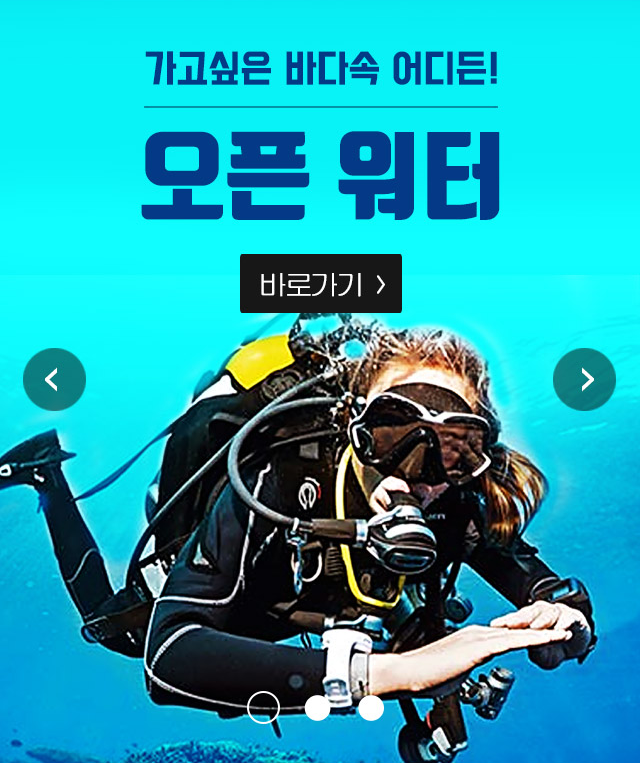
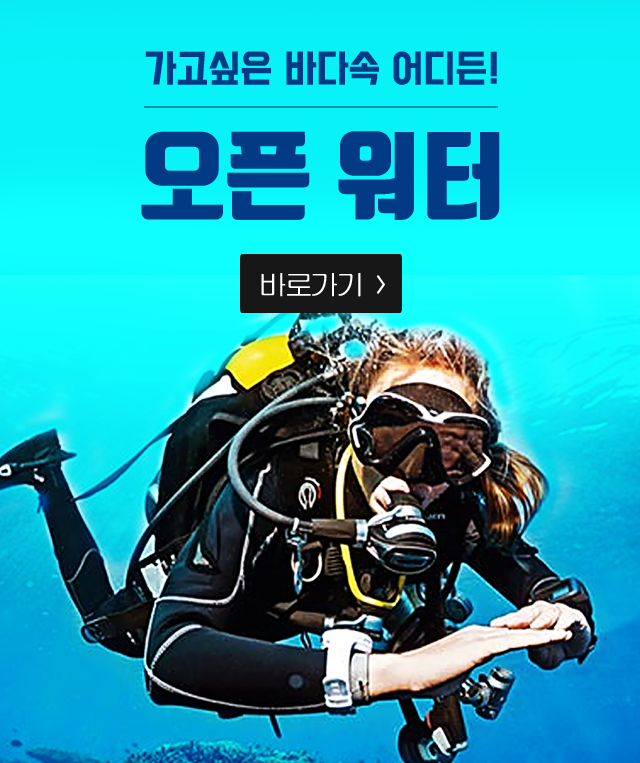
s

diff --git a/work/view_bluemonster/css/common.css b/work/view_bluemonster/css/common.css
@@ -1301,6 +1301,8 @@ label.chk2 input[type=checkbox]:checked+span:before {
 
 .main .container .con_1 .inner .sub_title {
     width: 171px;
+    position: relative;
+    z-index: 2;
 }
 
 .main .container .con_1 .inner .title {
@@ -1432,11 +1434,7 @@ label.chk2 input[type=checkbox]:checked+span:before {
 .main .container .con_3 .inner {
     width: 100%;
     max-width: 1100px;
-    height: 577px;
     margin: 0 auto;
-    background-image: url(../img/con_3_1.png);
-    background-repeat: no-repeat;
-    background-position: center center;
     position: relative;
 }
 
@@ -1457,7 +1455,9 @@ label.chk2 input[type=checkbox]:checked+span:before {
     width: 150px;
     background-image: url(../img/arr_btn_2.png);
 }
-
+.main .container .con_3 .inner .m_hidden{
+    display: none;
+}
 .main .container .con_4 {
     background-image: url(../img/con_4_1.png);
     background-repeat: repeat;
@@ -2491,6 +2491,9 @@ label.chk2 input[type=checkbox]:checked+span:before {
     display: none;
 }
 
+.main .container .main_visual .slick_wrap .slick_con .m2_hidden{
+    display: none;
+}
 .main .container .main_visual .slick_wrap .slick_con .m_hidden{
     display: none;
 }
@@ -2504,7 +2507,7 @@ label.chk2 input[type=checkbox]:checked+span:before {
     .main .container .con_1 .con_bg {
         width: 60%;
         top: 20px;
-        right: -50px;
+        right: -80px;
     }
     .main .container .con_1 .con_bg img{
         display: none;
@@ -2513,7 +2516,7 @@ label.chk2 input[type=checkbox]:checked+span:before {
         display: block;
     }
     .main .container .main_visual {
-        margin-top: 80px;
+        margin-top: 60px;
     }
 
     .main .container .main_visual .arrows_wrap {
@@ -2534,7 +2537,10 @@ label.chk2 input[type=checkbox]:checked+span:before {
     }
 
     .main .container .con_1 .inner .btn_wrap {
-        margin: 70px 0 0;
+        margin: 20px 0 0;
+    }
+    .main .container .con_2 .inner .btn_wrap{
+        margin: 20px 0 0;
     }
     #gnb.on+.gnb_bg {
         top: 0;
@@ -2631,12 +2637,13 @@ label.chk2 input[type=checkbox]:checked+span:before {
     #header {
         overflow: visible;
         transform: none;
+        height: 60px;
     }
 
     #header .header_inner {
         width: 100%;
         max-width: 1100px;
-        height: 80px;
+        height: 60px;
         z-index: 100;
         box-sizing: border-box;
         transition: all .3s;
@@ -2656,7 +2663,7 @@ label.chk2 input[type=checkbox]:checked+span:before {
 
 
     #header .header_inner .trg_aside {
-        width: 34px;
+        width: 30px;
         height: 32px;
         position: absolute;
         top: 50%;
@@ -2667,31 +2674,35 @@ label.chk2 input[type=checkbox]:checked+span:before {
     }
 
     #header .header_inner .util {
-        width: 51px;
-        height: 51px;
+        width: 45px;
+        height: 45px;
         position: absolute;
         top: 50%;
         right: 30px;
         transform: translate(0, -50%);
         text-indent: -9999px;
     }
-
+    #header .header_inner .util img{
+        width: 100%;
+    }
     #header.brand .header_inner .util.login:before {
-        width: 51px;
-        height: 51px;
+        width: 45px;
+        height: 45px;
         background: url(../img/m_login.png) 0 0 no-repeat;
+        background-size: contain;
     }
     #header.brand .header_inner .util.logout:after {
-        width: 51px;
-        height: 51px;
+        width: 45px;
+        height: 45px;
         background: url(../img/m_logout.png) 0 0 no-repeat;
+        background-size: contain;
     }
 
     #header:after {
         display: block;
         content: '';
         position: absolute;
-        top: 80px;
+        top: 60px;
         width: 100%;
         height: 2px;
         background: rgba(255, 255, 255, 0.2);
@@ -2719,10 +2730,10 @@ label.chk2 input[type=checkbox]:checked+span:before {
         position: fixed;
         top: 0;
         bottom: 0;
-        left: -375px;
+        left: -340px;
         z-index: 200;
         box-sizing: border-box;
-        width: 375px;
+        width: 340px;
         margin: 0;
         padding: 70px 40px 60px;
         background: #0489b1;
@@ -3052,6 +3063,12 @@ label.chk2 input[type=checkbox]:checked+span:before {
         width: 100%;
         max-width: 320px;
         margin: 20px auto 0;
+    }
+    .main .container .main_visual .slick_wrap .slick_con img{
+        display: none;
+    }
+    .main .container .main_visual .slick_wrap .slick_con .m2_hidden{
+        display: block;
     }
 }
 
@@ -3417,6 +3434,9 @@ label.chk2 input[type=checkbox]:checked+span:before {
     .main .container .main_visual .slick_wrap .slick_con img{
         display: none;
     }
+    .main .container .main_visual .slick_wrap .slick_con .m2_hidden{
+        display: none;
+    }
     .main .container .main_visual .slick_wrap .slick_con .m_hidden{
         display: block;
     }
@@ -3432,17 +3452,19 @@ label.chk2 input[type=checkbox]:checked+span:before {
     }
     .main .btn_wrap .btn{
         width: 300px;
-        font-size: 22px;
+        font-size: 20px;
+        height: 50px;
+        line-height: 50px;
     }
     .main .container .con_2 .box_left .inner{
-        padding-top: 50px;
+        padding-top: 30px;
     }
     .main .container .con_2>div{
         height: auto;
-        padding-bottom: 50px;
+        padding-bottom: 30px;
     }
     .main .container .con_2 .box_right .inner{
-        padding-top: 50px;
+        padding-top: 30px;
     }
     .main .container .con_4 .inner .box_left{
         width: 100%;
@@ -3458,6 +3480,24 @@ label.chk2 input[type=checkbox]:checked+span:before {
     }
     .main .container .con_4 .inner .box_left img{
         max-width: 50%;
+    }
+    .main .container .con_1{
+        padding: 30px 0;
+    }
+    .main .container .con_4{
+        padding: 30px 0;
+    }
+    .main .container .con_5{
+        padding: 30px 0;
+    }
+    .main .container .con_5 .sns_wrap{
+        padding-top: 30px;
+    }
+    .main .container .con_3 .inner img{
+        display: none;
+    }
+    .main .container .con_3 .inner .m_hidden{
+        display: block;
     }
 }
 
@@ -3483,6 +3523,7 @@ label.chk2 input[type=checkbox]:checked+span:before {
     .main .container .con_2 .box_right .inner .add_text {
         font-size: 20px;
         line-height: 36px;
+        display: none;
     }
 
     .main .container .con_4 .inner img {
@@ -3493,11 +3534,15 @@ label.chk2 input[type=checkbox]:checked+span:before {
     }
 
     .main .container .con_5 .inner .arrows_wrap {
-        min-width: 120px;
+        min-width: 100%;
+        bottom: -360px;
+        z-index: 2;
     }
 
     .main .container .con_5 .inner .title {
         width: 100%;
+        font-size: 42px;
+        padding-top: 25px;
     }
 
     .sub06 .container .con_1 .inner {
@@ -3556,16 +3601,22 @@ label.chk2 input[type=checkbox]:checked+span:before {
         font-size: 34px;
     }
 
+    .main .container .con_5 .inner .title span {
+        display: none;
+    }
     .main .container .con_2 .box_left .inner .title {
         font-size: 42px;
+        padding-top: 25px;
     }
 
     .main .container .con_2 .box_left .inner .title span {
         font-size: 34px;
+        display: none;
     }
 
     .main .container .con_2 .box_right .inner .title {
         font-size: 42px;
+        padding-top: 25px;
     }
 
     .main .container .con_2 .box_right .inner .title span {

diff --git a/work/view_bluemonster/index.html b/work/view_bluemonster/index.html
@@ -126,18 +126,21 @@
                     <div class="slick_con">
                         <a href="#">
                             <img src="img/main_visual_1.png" alt="설명">
+                            <img src="img/m2_main_visual_1.png" alt="설명" class="m2_hidden">
                             <img src="img/m_main_visual_1.png" alt="설명" class="m_hidden">
                         </a>
                     </div>
                     <div class="slick_con">
                         <a href="#">
                             <img src="img/main_visual_2.png" alt="설명">
+                            <img src="img/m2_main_visual_1.png" alt="설명" class="m2_hidden">
                             <img src="img/m_main_visual_1.png" alt="설명" class="m_hidden">
                         </a>
                     </div>
                     <div class="slick_con">
                         <a href="#">
                             <img src="img/main_visual_3.png" alt="설명">
+                            <img src="img/m2_main_visual_1.png" alt="설명" class="m2_hidden">
                             <img src="img/m_main_visual_1.png" alt="설명" class="m_hidden">
                         </a>
                     </div>
@@ -153,7 +156,7 @@
                     </div>
                     <div class="title">
                         <span>블루몬스터</span>
-                        '보트 펀다이빙'
+                        '보트 펀다이빙'<br>
                         소개합니다.
                     </div>
                     <div class="con_bg">
@@ -172,7 +175,7 @@
                             <img src="img/main_sub_title_2.png" alt="DIVING POINT">
                         </div>
                         <div class="title">
-                            <span>블루몬스터</span><br>
+                            <span>블루몬스터<br></span>
                             '다이빙 포인트'<br>
                             어디있죠?
                         </div>
@@ -202,12 +205,10 @@
             </div>
             <div class="con con_3">
                 <div class="inner">
-                    <div class="title">
-                        <img src="img/con_3_2.png" alt="블루몬스터 숙소">
-                    </div>
-                    <div class="btn_wrap">
-                        <a href="#" class="btn">더보기</a>
-                    </div>
+                    <a href="#">
+                        <img src="img/con_3_3.png" alt="블루몬스터 숙소">
+                        <img src="img/con_3_4.png" alt="블루몬스터 숙소" class="m_hidden">
+                    </a>
                 </div>
             </div>
             <div class="con con_4">
@@ -235,7 +236,7 @@
                         <img src="img/main_sub_title_4.png" alt="BLUEMONSTER COMMUNITY">
                     </div>
                     <div class="title">
-                        색다른 블루몬스터 이용후기
+                        색다른 <span>블루몬스터</span> 이용후기
                     </div>
                     <div class="arrows_wrap">
                     </div>
